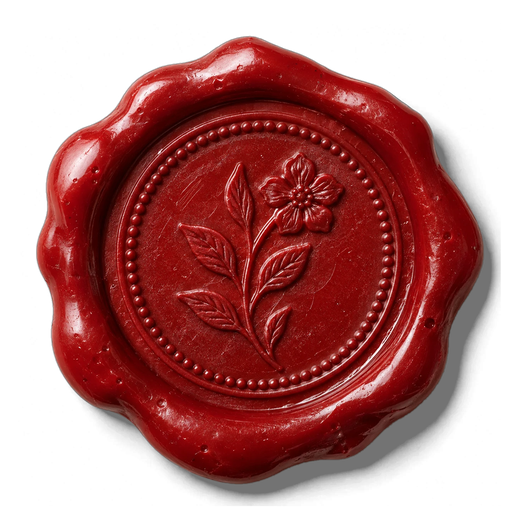
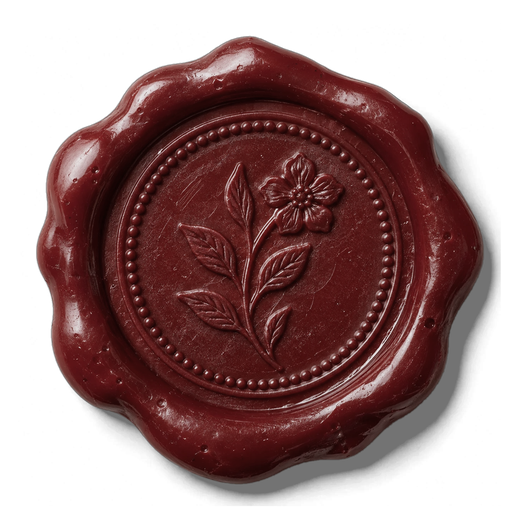
Lock screen: the wax seal in a quieter madder
The seal picture is toned on import (saturation 0.55, a touch darker),
so it sits on the card as an old madder wax rather than a bright red;
the molten drop and the crumbs follow.

Claude-Session: https://claude.ai/code/session_01Gt7tu4gfoEos1TAjQ1a4QF

diff --git a/dotfiles/.config/quickshell/modules/lock/WaxSeal.qml b/dotfiles/.config/quickshell/modules/lock/WaxSeal.qml
@@ -24,7 +24,7 @@ Item {
 
     readonly property real r: 58                 // the blob's radius
     readonly property real ri: r * 0.74          // the matrix's impression
-    readonly property color wax: "#8a0f0e"     // the picture's red, for the molten drop and the crumbs
+    readonly property color wax: "#5e1c1b"     // the picture's red, for the molten drop and the crumbs
     readonly property url image: Qt.resolvedUrl("../../assets/seal/seal.png")
     readonly property real k: 2                  // drawn at twice the size, for a crisp edge (Sharp)
 

diff --git a/tools/import_seal.py b/tools/import_seal.py
@@ -7,7 +7,8 @@ The picture: one wax seal seen from above on plain white (the prompt in
 art/seal/README.md). The wax is told from the paper by its colour (red, not
 grey), the highlights inside it kept (whatever the paper does not reach
 from the picture's edge is wax), its shadow kept as a soft translucent
-shadow, and the seal centred and made 520 px across. Writes
+shadow, its red quietened to an old madder, and the seal centred and made
+520 px across. Writes
 dotfiles/.config/quickshell/assets/seal/seal.png; the lock screen
 (modules/lock/WaxSeal.qml) presses it, cracks it and lets the halves fall.
 """
@@ -15,18 +16,20 @@ import pathlib
 import sys
 
 import numpy as np
-from PIL import Image, ImageDraw, ImageFilter
+from PIL import Image, ImageDraw, ImageEnhance, ImageFilter
 
 ROOT = pathlib.Path(__file__).resolve().parent.parent
 DST = ROOT / "dotfiles" / ".config" / "quickshell" / "assets" / "seal" / "seal.png"
 SIZE = 520           # the picture, square; the seal itself fills about 86 % of it
+SATURATION = 0.55    # an old madder wax, not a bright red, beside the paper
+BRIGHTNESS = 0.92
 
 
 def main():
     if len(sys.argv) < 2:
         sys.exit(__doc__)
     im = Image.open(sys.argv[1]).convert("RGB")
-    a = np.asarray(im).astype(np.float32)
+    a = np.asarray(im).astype(np.float32)          # (told apart by its colour as it comes)
     r, g, b = a[..., 0], a[..., 1], a[..., 2]
     red = r - np.maximum(g, b)                       # the wax is red; paper and its shadow are grey
 
@@ -49,7 +52,8 @@ def main():
     shadow = np.clip((ref - lum) / ref * 2.2, 0, 0.55) * (1 - m)
 
     rgba = np.zeros((h, w, 4), np.float32)
-    rgba[..., :3] = a * m[..., None]                 # the wax; black under the shadow
+    toned = ImageEnhance.Brightness(ImageEnhance.Color(im).enhance(SATURATION)).enhance(BRIGHTNESS)
+    rgba[..., :3] = np.asarray(toned).astype(np.float32) * m[..., None]   # the wax; black under the shadow
     rgba[..., 3] = np.clip(m + shadow, 0, 1) * 255
     out = Image.fromarray(rgba.astype(np.uint8), "RGBA")
 
